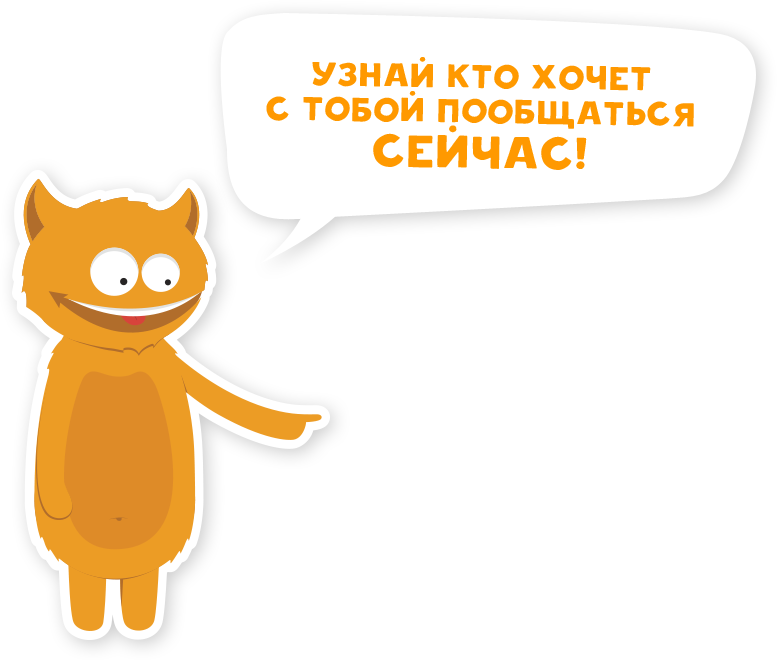
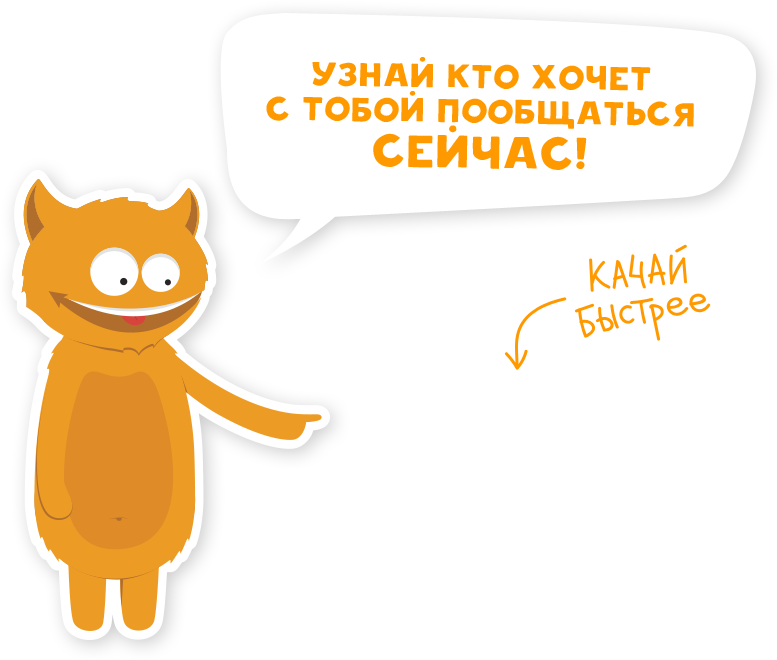
fix trouble with pointers

Changed region(s): [[0.7413, 0.3636, 0.9266, 0.5152], [0.6486, 0.4848, 0.6795, 0.5758], [0.6795, 0.4545, 0.7104, 0.4848]]

diff --git a/static/css/wt.css b/static/css/wt.css
@@ -427,17 +427,14 @@ html, body {
   top: auto;
   margin: 0 auto img;
     margin-max-width: 100%; }
-.wt-slider_item_7 .wt-appstor_link {
+.wt-slider_item_7 .wt-appstor_link_img {
   position: absolute;
   left: 50%;
-  top: 58%; }
-.wt-slider_item_7 .wt-appstor_link_motive_2 {
-  position: absolute;
-  width: 207px;
-  height: 126px;
-  background: url(../i/sp.png) -147px -112px;
-  left: 116px;
-  top: -141px; }
+  top: 58%;
+  max-width: 48%; }
+  .wt-slider_item_7 .wt-appstor_link_img img {
+    display: block;
+    max-width: 100%; }
 
 .wt-slider_item_content_top {
   overflow: hidden;
@@ -639,13 +636,6 @@ html, body {
   .wt-slider_item_6 .wt-slider_item_img {
     margin-right: 0; }
 
-  .wt-slider_item_7 .wt-appstor_link {
-    top: 63%;
-    left: 44%; }
-  .wt-slider_item_7 .wt-appstor_link_motive_2 {
-    left: 75px;
-    top: -131px; }
-
   .wt-slider_item_content {
     margin: 0 0 20px; }
 
@@ -673,6 +663,12 @@ html, body {
     line-height: 45px; }
 
   .wt-page hr {
-    margin: 15px 0 25px; } }
+    margin: 15px 0 25px; }
+
+  .wt-slider_item h3 {
+    font-size: 20px;
+    line-height: 26px; }
+    .wt-slider_item h3 b {
+      font-size: 26px; } }
 
 /*# sourceMappingURL=wt.css.map */

diff --git a/static/css/wt.scss b/static/css/wt.scss
@@ -489,19 +489,16 @@ html, body{
         }
     }
 
-    .wt-appstor_link{
+    .wt-appstor_link_img{
         position: absolute;
         left: 50%;
         top: 58%;
-    }
+        max-width: 48%;
 
-    .wt-appstor_link_motive_2{
-        position: absolute;
-        width: 207px;
-        height: 126px;
-        background: url(../i/sp.png) -147px -112px;
-        left: 116px;
-        top: -141px;
+        img{
+            display: block;
+            max-width: 100%;
+        }
     }
 }
 .wt-slider_item_content_top{overflow: hidden; padding: 50px 0 0;}
@@ -795,18 +792,6 @@ html, body{
         }
     }
 
-    .wt-slider_item_7{
-        .wt-appstor_link{
-            top: 63%;
-            left: 44%;
-        }
-
-        .wt-appstor_link_motive_2{
-            left: 75px;
-            top: -131px;
-        }
-    }
-
     .wt-slider_item_content{
         margin: 0 0 20px;
     }
@@ -849,5 +834,14 @@ html, body{
 
     .wt-page hr{
         margin: 15px 0 25px;
+    }
+
+    .wt-slider_item h3{
+        font-size: 20px;
+        line-height: 26px;
+
+        b{
+            font-size: 26px;
+        }
     }
 }

diff --git a/index.html b/index.html
@@ -143,9 +143,7 @@
                             <div class="wt-slider_item_inner">
                                 <div class="wt-slider_item_img">
                                     <img src="static/i/screens/7.png"/>
-                                    <a class="wt-appstor_link" href="http://appstore.com">
-                                        <span class="wt-appstor_link_motive_2"></span>
-                                    </a>
+                                    <a class="wt-appstor_link_img" href="http://appstore.com"><img src="static/i/app_link.png"/></a>
                                 </div>
                             </div>
                         </div>
